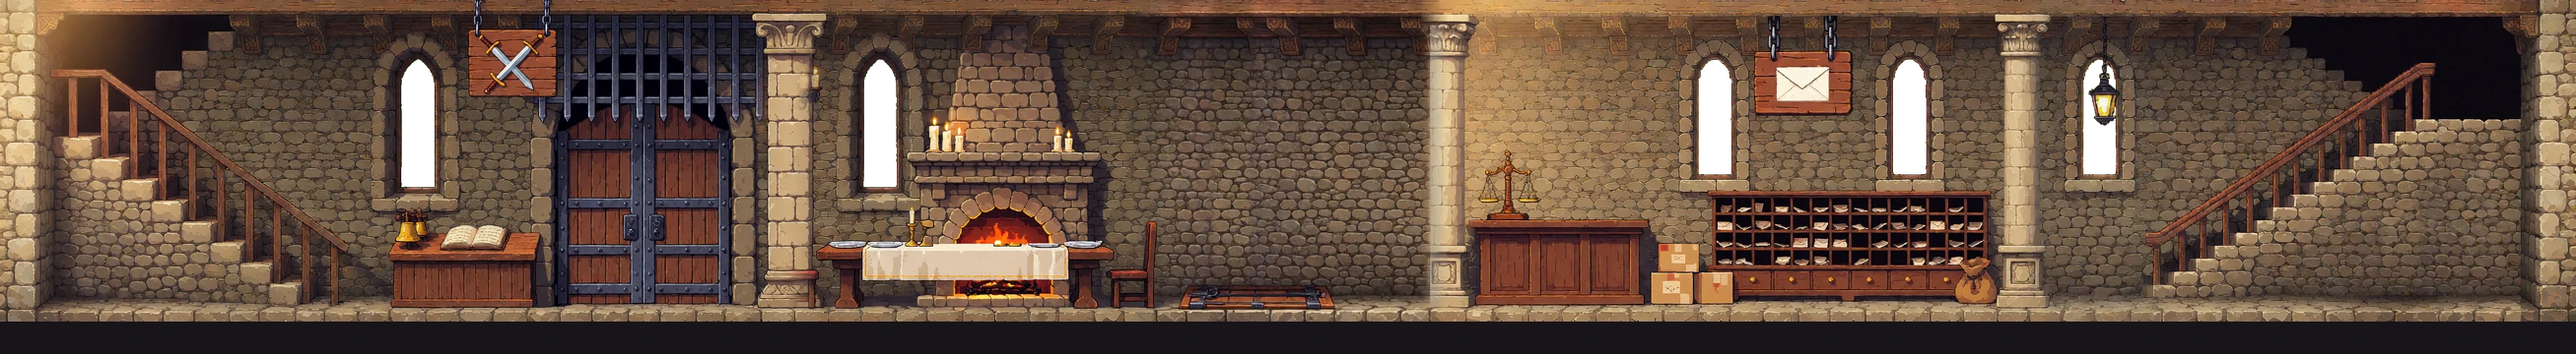
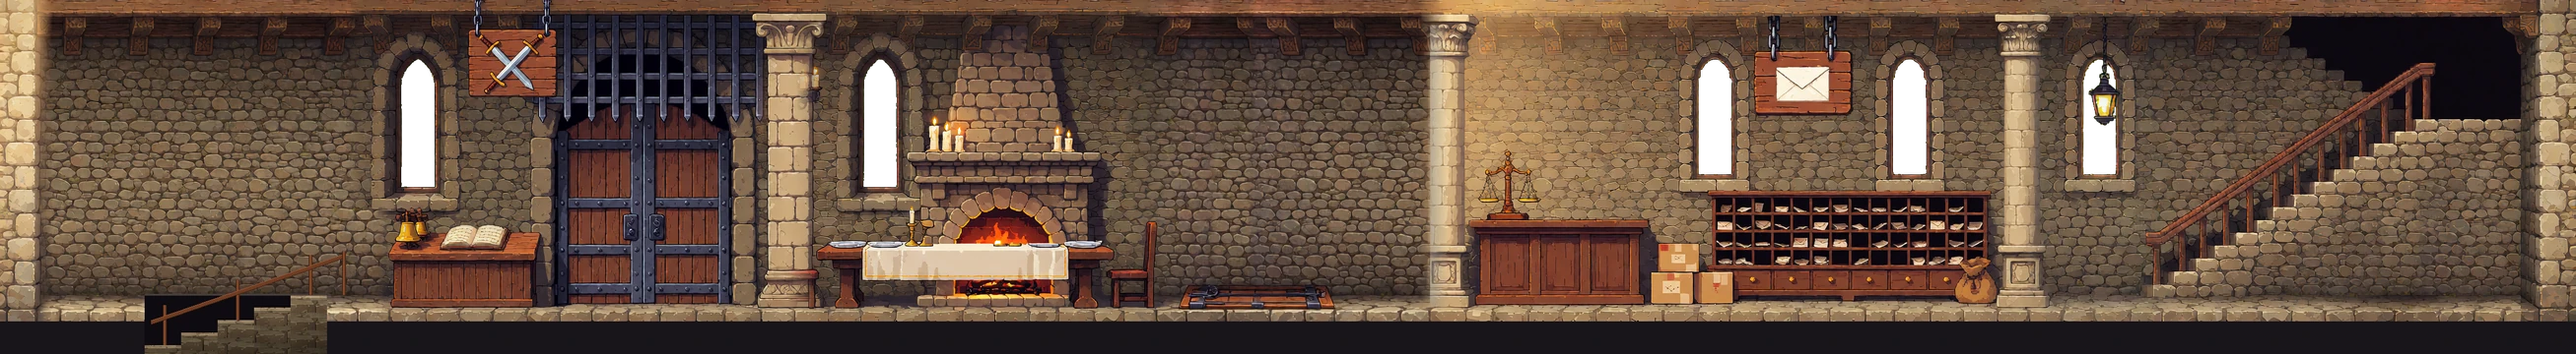
Night Watch: ground floor's left stair now goes down to the cellars
The old stair climbed up; it is walled over and a strict side-view stair is
cut into the floor at the same spot, dropping into the dark below the floor
line (ground layer now uses its full 360 px). stair-left moves to 239.

Claude-Session: https://claude.ai/code/session_01JTmPYBVW2aVCQqTmNfy428

Changed region(s): [[0.0, 0.0, 0.1549, 1.0]]

diff --git a/game/js/watch-art-castle.js b/game/js/watch-art-castle.js
@@ -26,7 +26,7 @@ window.WATCH_ART_CASTLE = {
    "doors": {},
    "popupRooms": [],
    "links": {
-    "stair-left": 153,
+    "stair-left": 239,
     "stair-right": 2336,
     "ladder": 1280
    },

diff --git a/game/tools/watch_art/castle/export_castle.py b/game/tools/watch_art/castle/export_castle.py
@@ -1,6 +1,6 @@
 # Export the HD castle floors and room interiors into the game, and write js/watch-art-castle.js.
 # Usage (from game/): python3 tools/watch_art/castle/export_castle.py <folder with the final PNGs>
-#   expects <src>/{ground,cellars,upper,towers}.png (4096x512) and <src>/rooms/<room>.png (1600x896)
+#   expects <src>/{ground,cellars,upper,towers}.png (4096x512; ground 4096x564 with the cellar stair below the floor) and <src>/rooms/<room>.png (1600x896)
 # Floors are scaled to engine units (x0.638: floor line y=470 -> 300 of a 360-tall layer); the 4096-wide masters stay in the
 # project folder (sogni/night-watch/castle-work) for a later DPR re-export.
 import json, os, sys
@@ -21,7 +21,7 @@ def key_windows(a, f):
     return a
 FLOORS = {   # x in native px of the 4096-wide floor (engine x = x * scale)
  'ground':  {'doorways': [], 'walkthrough': [['gate', 300, 1225], ['hall', 1290, 1840], ['post-room', 2325, 3190]],
-             'trapdoor': [1880, 2130], 'stairs': {'up-left': [60, 420], 'up-right': [3420, 3900]}},
+             'trapdoor': [1880, 2130], 'stairs': {'down-left': [230, 520], 'up-right': [3420, 3900]}},
  'cellars': {'doorways': [['archive', 899], ['strongroom', 1459], ['barracks', 2579], ['tavern', 3139]],
              'trapdoor': None, 'ladder': 1994, 'stairs': {'up-left': [80, 500]}},
  'upper':   {'doorways': [['wardrobe', 990], ['ledger', 1590], ['bridge-tower', 2775]],
@@ -37,7 +37,7 @@ ROOM_FLOOR = {'cellars': ['archive', 'strongroom', 'barracks', 'tavern'], 'upper
               'towers': ['watchtower', 'lookout', 'captain']}
 LINKS = {   # link id -> native x per floor; the engine pairs the same id across floors
  'cellars': {'stair-left': 290, 'ladder': 1994},
- 'ground':  {'stair-left': 240, 'stair-right': 3660, 'ladder': 2005},
+ 'ground':  {'stair-left': 375, 'stair-right': 3660, 'ladder': 2005},
  'upper':   {'stair-right': 3750, 'back-stair': 310, 'ladder': 2005, 'bridge-door': 2775},
  'towers':  {'back-stair': 3790, 'ladder': 2000},
 }
@@ -45,7 +45,7 @@ def E(x): return round(x * SCALE)
 out, interiors = {}, {}
 for f, g in FLOORS.items():
     a = np.asarray(Image.open(f'{src}/{f}.png').convert('RGBA')).copy()
-    im = Image.fromarray(key_windows(a, f), 'RGBA'); W = E(4096); im = im.resize((W, E(512)), Image.LANCZOS)
+    im = Image.fromarray(key_windows(a, f), 'RGBA'); W = E(4096); im = im.resize((W, min(360, E(im.height))), Image.LANCZOS)   # ground is 564 tall: its cellar stair drops below the floor
     lay = Image.new('RGBA', (W, 360), (24, 20, 26, 255)); lay.paste(im, (0, 0))      # paste keeps windows see-through
     webp(lay, f'{A}floors/{f}/wall-v2.webp')
     rooms = [[n, E(x0), E(x1)] for n, x0, x1 in g.get('walkthrough', [])] + [[n, E(cx - 150), E(cx + 150)] for n, cx in g['doorways']]

diff --git a/game/tools/watch_art/castle/ground_down.py b/game/tools/watch_art/castle/ground_down.py
@@ -1,0 +1,32 @@
+# Ground floor's way down to the cellars, strict side view (Ladi, Nov 19): the old up-stair is walled over (G5a, from
+# ground_stair.py) and a stair is cut into the floor at the same x, its steps (cut from the floor's own stone) dropping
+# to the left into the dark below the floor line, with a wooden handrail like the other stairs. Output is 4096x564
+# (the layer's full 360 engine px), so the steps show below the floor.
+import numpy as np
+from PIL import Image
+g = np.asarray(Image.open('hd/G5a.png').convert('RGB')).astype(float)
+H = 564; FL = 470; out = np.zeros((H, 4096, 3)); out[:] = (24, 20, 26); out[:512] = g
+x0, x1 = 230, 520                  # the opening in the floor (stairs leave the floor at x1 and drop to the left)
+out[FL - 2:H, x0:x1] = (14, 11, 16)                                  # dark stairwell
+stone = g[482:510, 2820:3300]                                       # floor stone to cut steps from
+n = 5; run = (x1 - x0) // n; rise = 20
+for i in range(n):                                                    # step i: top at FL + i*rise, from x1 - (i+1)*run
+    xa, xb = x1 - (i + 1) * run, x1 - i * run; yt = FL + i * rise
+    for yy in range(yt, H):
+        k = (yy - yt) % stone.shape[0]; row = stone[k, (i * 37) % 200:(i * 37) % 200 + (xb - xa)]
+        shade = 1.0 if yy < yt + 5 else 0.7 - 0.004 * (yy - yt)               # light tread, darker riser, darker further down
+        out[yy, xa:xb] = row[:xb - xa] * max(0.25, shade - 0.05 * i)
+    if yt < H: out[yt, xa:xb] = out[yt, xa:xb] * 1.15                            # nosing highlight
+    pass
+out[FL - 2:FL + 1, x0:x1] = (70, 62, 58)                              # floor edge
+# handrail: posts every other step and a rail parallel to the steps, wood colours from the existing stairs
+wood, dark, lite = np.array((112, 60, 34.)), np.array((62, 32, 18.)), np.array((150, 86, 50.))
+def post(x, ytop, ybot):
+    out[ytop:ybot, x:x + 6] = wood; out[ytop:ybot, x] = dark; out[ytop:ybot, x + 5] = dark; out[ytop:ybot, x + 2] = lite
+for i in range(0, n, 2):
+    xa = x1 - i * run - run // 2; yt = FL + i * rise; post(xa, yt - 64, yt)
+for x in range(x0 + 10, x1 + 30):                                    # rail: from above the top step down to the left
+    t = (x1 + 30 - x) / run; y = int(FL - 66 + t * rise)
+    if y < H - 4: out[y:y + 7, x] = wood; out[y, x] = lite; out[y + 6, x] = dark
+post(x1 + 24, FL - 70, FL)                                            # newel post at the top
+Image.fromarray(out.clip(0, 255).astype(np.uint8)).save('hd/G5.png')

diff --git a/game/tools/watch_art/castle/ground_stair.py b/game/tools/watch_art/castle/ground_stair.py
@@ -1,0 +1,10 @@
+# Ground floor: replace the left stair (it climbed up) with a way down to the cellars (Ladi, Nov 19).
+# Step 1: cover the old stair with plain wall from the upper floor, colour-matched (G5a). Step 2 is ground_down.py.
+# (A Sogni try at an arched opening with steps came out in 3D perspective and was not used.)
+from compose2 import A, paste, save
+g = A('hd/G4.png'); u = A('hd/upper-v3.png')
+gain = g[150:300, 450:560].reshape(-1, 3).mean(0) / u[100:300, 3350:3480].reshape(-1, 3).mean(0)
+src = u * gain
+paste(g, src, (2930, 0, 3445, 345), (60, 0), fy=False, f=24)
+paste(g, src, (2930, 330, 3490, 512), (60, 330), fy=False, f=24)
+save(g, 'hd/G5a.png')

diff --git a/game/CREDITS.md b/game/CREDITS.md
@@ -136,7 +136,7 @@ Everything else is drawn in code: portraits for characters without a painted one
 | The Night Watch's stacked town (`assets/img/watch/town`, and the per-level crops `assets/img/watch/levels/*/street.webp`): the West Road, Hill Road, Main Street and Far Lane on one hillside, each road above the next, joined by sloped paths and the chute | Laid out by `tools/watch_art/town.py` on 2026-11-18 from the Sogni buildings, trees and bushes credited above, plus a hillside soil tile and a stone retaining-wall tile generated for this game with [Sogni](https://www.sogni.ai) on 2026-11-18 with Krea 2 Turbo (`krea2_turbo_fp8_scaled`) on Ladi's Sogni Unlimited plan; roads, ramps, fences, the chute and the dock's plank walkway and river drawn in code. The backdrop behind the terraces (`town/back.webp`) reuses the hazed rooftop rows from the first set of level layers, raised to the top of the hill, over a hazed hillside of the same trees and bushes. Since 2026-11-18 the roads sit 125 px apart with a solid earth bank between them, each road's buildings are a layer of their own (`town/bld-*.webp`), and a blurred, see-through copy of each (`town/bld-*-soft.webp`) is made in code. The plain below the hazed rooftops is filled with distant villages and farmland (`town/back.webp`), or in the variants `town/back-forest.webp` and `town/back-mix.webp` with forest, rocky terrain and lakes (with a few villages in the mix), each from three panoramas generated for this game with Google's Gemini image generation (Gemini 3.1 Flash Image) on 2026-11-18 (`tools/watch_art/villages`, `forest` and `mix`, made by `tools/watch_art/gem.py`), cropped, hazed and cross-faded in code | Generated for this game with Sogni and Gemini; used under each service's terms for generated output | The Night Watch's town (`js/watch-art.js`) |
 | The Night Watch's castle floors (`assets/img/watch/floors/*/wall.webp`): the towers, upper floor, ground floor and cellars, each one long wall with its stairs at both ends and its rooms furnished at a person's scale | Generated for this game with [Sogni](https://www.sogni.ai) on 2026-11-18 on Ladi's Sogni Unlimited plan: each floor drawn empty as one wall with Krea 2 Turbo (`krea2_turbo_fp8_scaled`), then furnished in place with Krea 2 Identity Edit (`krea2_identity_edit_v1_2`) using the empty room for scale; windows and doorways keyed out by `tools/watch_art/floors2.py`. The cellar bunk that blocked a doorway removed with one more Krea 2 Identity Edit; the ground floor's window sills, the solid end walls, the opened bridge doorway and the hoist shaft on the left drawn in code by the same script | Generated for this game; used under Sogni's terms for generated output | The Night Watch's castle (`js/watch-art.js`) |
 | The Night Watch's dialogue portraits (`assets/img/watch/portraits/*.webp`): Seo-yeon, Mira, Kai, Dutch, Postmaster Coo, Bru, Kagemaru, Lexi, Grandma Wen, Ayo, Aigerim, Chad, Sir Seymour Backups, Old Hobb, Sergeant Pell, Tess, Doug, Hollis, Odu, Fennel, the Captain and the Hooded Stranger | Generated for this game with [Sogni](https://www.sogni.ai) on 2026-11-18 with Krea 2 Identity Edit (`krea2_identity_edit_v1_2`) on Ladi's Sogni Unlimited plan, each turned into a head-and-shoulders bust from that character's side-view render in `assets/img/watch/people` (and, where one exists, their portrait in `assets/img/portraits` as a second reference); one of two takes picked, cropped and converted to WebP; Seymour's closed visor edited the same way, and Kagemaru's wrists recoloured black in code. Chad's portrait (a young first-year MBA in a navy quarter zip) drawn fresh from a text prompt with Krea 2 Turbo (`krea2_turbo_fp8_scaled`), one of six takes picked. Prompts in `tools/watch_art/jobs/jobs-portrait.json` | Generated for this game; used under Sogni's terms for generated output | The Night Watch's dialogue box |
-| The Night Watch's HD castle floors (`assets/img/watch/floors/{ground,cellars,upper,towers}/wall-v2.webp`): the ground floor (gatehouse, great hall with its fireplace, post room), the brick-vaulted cellars, the upper floor and the tower top, painted 4096x512 (masters kept in the project files) and scaled to 2614x360 for the game, with stairs, a floor trapdoor and archway doorways with picture signs | Generated for this game with [Sogni](https://www.sogni.ai) on 2026-11-18 and 2026-11-19 on Ladi's Sogni Unlimited plan: an empty HD hall drawn with Krea 2 Turbo (`krea2_turbo_fp8_scaled`), then built up one feature per edit with Krea 2 Identity Edit (`krea2_identity_edit_v1_2`) in 2048-wide windows pasted back with feathered edges (`tools/watch_art/castle/winedit.py`); the eight doorway signs drawn with Krea 2 Turbo on white and cut out. The cellars were rebuilt in code from one clean vault bay of the Sogni render, and missing doorways were copied from another doorway on the same floor (`tools/watch_art/castle/cellars_tiles.py`, `compose2.py`, `towers_fix.py`). Windows keyed to transparent by `tools/watch_art/castle/export_castle.py` | Generated for this game; used under Sogni's terms for generated output | The Night Watch's castle floors (`js/watch-art-castle.js`, `WATCH_ART_CASTLE`) |
+| The Night Watch's HD castle floors (`assets/img/watch/floors/{ground,cellars,upper,towers}/wall-v2.webp`): the ground floor (gatehouse, great hall with its fireplace, post room), the brick-vaulted cellars, the upper floor and the tower top, painted 4096x512 (masters kept in the project files) and scaled to 2614x360 for the game, with stairs, a floor trapdoor and archway doorways with picture signs | Generated for this game with [Sogni](https://www.sogni.ai) on 2026-11-18 and 2026-11-19 on Ladi's Sogni Unlimited plan: an empty HD hall drawn with Krea 2 Turbo (`krea2_turbo_fp8_scaled`), then built up one feature per edit with Krea 2 Identity Edit (`krea2_identity_edit_v1_2`) in 2048-wide windows pasted back with feathered edges (`tools/watch_art/castle/winedit.py`); the eight doorway signs drawn with Krea 2 Turbo on white and cut out. The cellars were rebuilt in code from one clean vault bay of the Sogni render, and missing doorways were copied from another doorway on the same floor (`tools/watch_art/castle/cellars_tiles.py`, `compose2.py`, `towers_fix.py`). The ground floor's stair down to the cellars is drawn in code from the floor's own stone (`tools/watch_art/castle/ground_down.py`). Windows keyed to transparent by `tools/watch_art/castle/export_castle.py` | Generated for this game; used under Sogni's terms for generated output | The Night Watch's castle floors (`js/watch-art-castle.js`, `WATCH_ART_CASTLE`) |
 | The Night Watch's room popups (`assets/img/watch/rooms/*.webp`): the archive, strongroom, barracks, tavern, wardrobe, ledger room, bridge tower, watchtower, lookout and captain's quarters, each painted around the object a breach is fixed on | Generated for this game with [Sogni](https://www.sogni.ai) on 2026-11-19 with Krea 2 Turbo (`krea2_turbo_fp8_scaled`) on Ladi's Sogni Unlimited plan, from the prompts in `tools/watch_art/castle/rooms.py` (one take each); trimmed and resized to 1600x900 and converted to WebP by `tools/watch_art/castle/export_castle.py` | Generated for this game; used under Sogni's terms for generated output | The Night Watch's room popups (`js/watch-art-castle.js`, `WATCH_ART_CASTLE`) |
 
 ## Model
